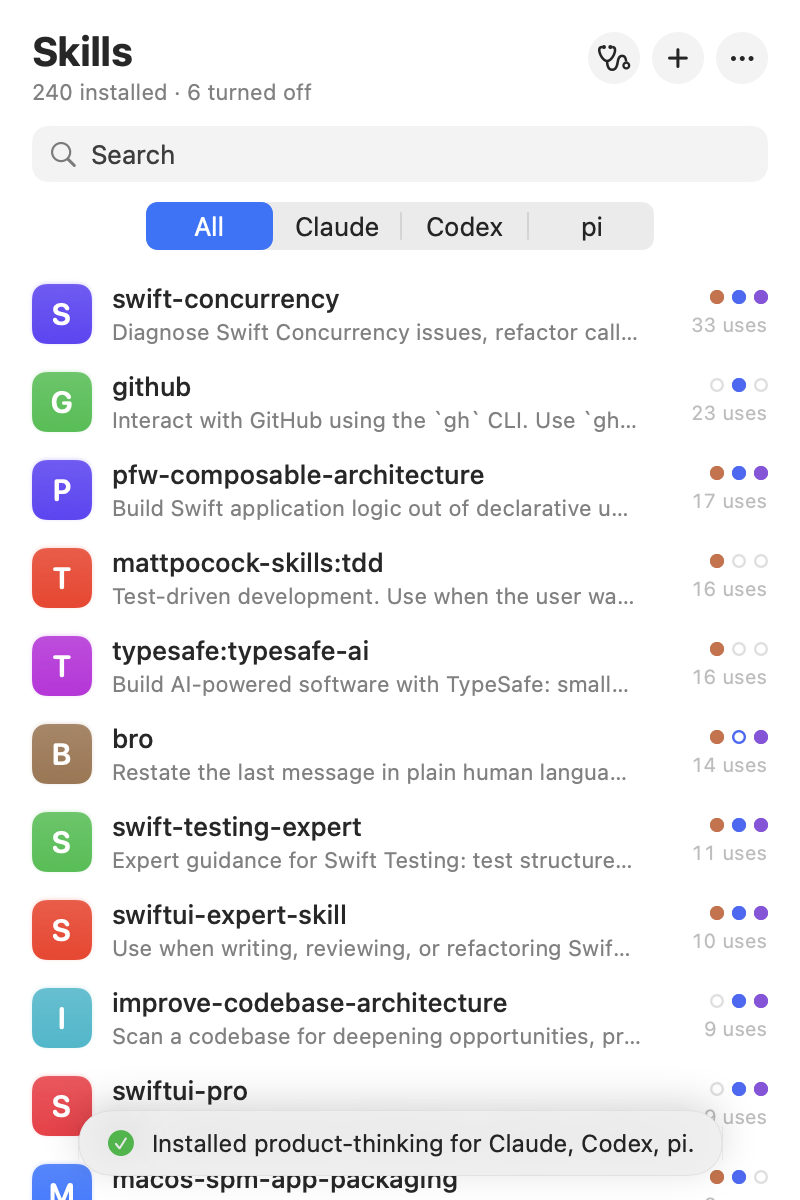
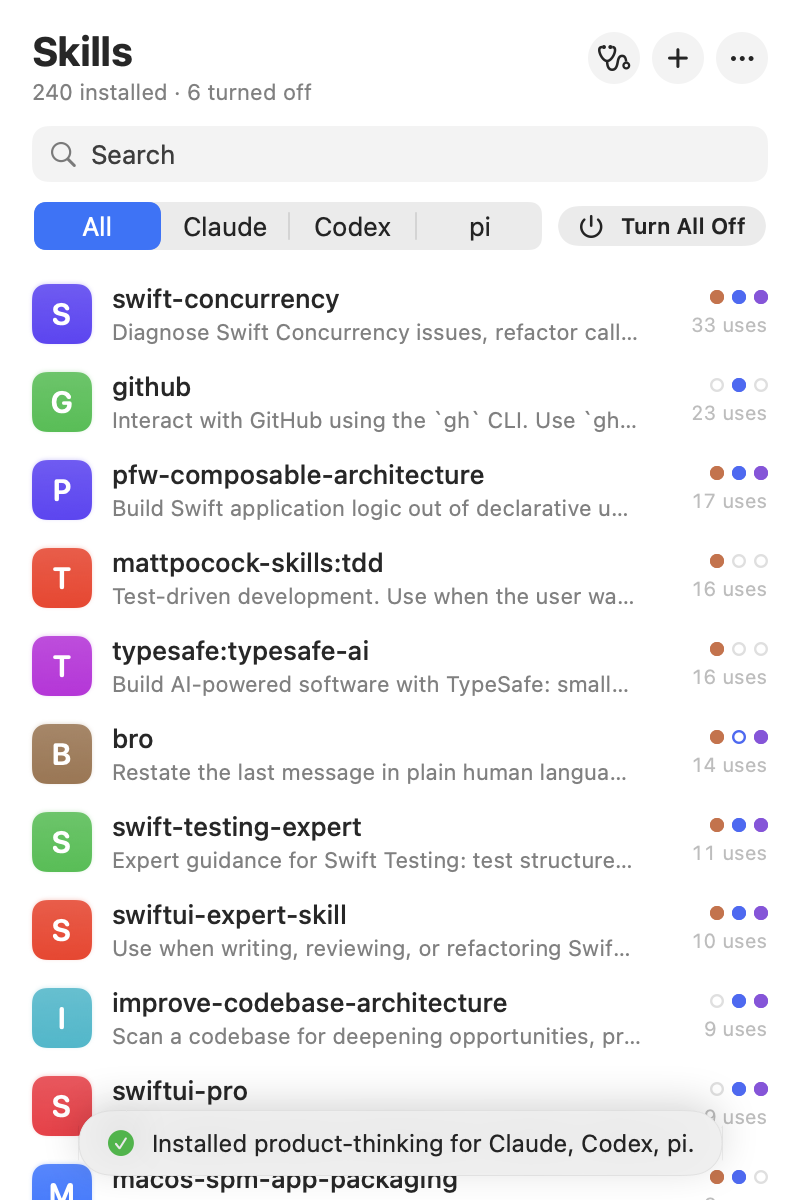
Add Turn All Off / Turn All On, and refilm the demo with it
Turn All Off switches off every skill for the selected agents in one
write per config file and remembers which ones it changed; Turn All On
restores exactly those. The demo film gets a beat for it, the user's
own wallpaper, and end card text without agent names.

diff --git a/films/skillspack-demo/src/film.js b/films/skillspack-demo/src/film.js
@@ -14,9 +14,9 @@ const PANEL = { x: ICON.x - 200, y: 28, w: 400, h: 600 };
 
 // Beat times (seconds). The same table drives picture and sound.
 const T = {
-  open: 0.5, bro: 2.2, codex: 3.9, back1: 5.6, banner: 6.9, fix: 8.3, back2: 9.9,
-  plus: 11.0, field: 12.1, paste: 12.6, find: 13.5, found: 14.6, install: 16.0, wide: 16.35, rest: 17.2, card: 19.3,
-  toastGone: 19.06, // the app hides a toast 3 s after it appears
+  open: 0.5, allOff: 1.9, allOn: 3.6, bro: 5.0, codex: 6.7, back1: 8.4, banner: 9.7, fix: 11.1, back2: 12.7,
+  plus: 13.8, field: 14.9, paste: 15.4, find: 16.3, found: 17.4, install: 18.8, wide: 19.15, rest: 20.0, card: 22.1,
+  toastGone: 21.86, // the app hides a toast 3 s after it appears
 };
 
 // Panel point → screen point.
@@ -25,11 +25,11 @@ const P = (x, y) => ({ x: PANEL.x + x, y: PANEL.y + y });
 // Camera framings, each from its start time: [time, zoom, focus]. Moves take 0.9 s.
 const SHOTS = [
   [0, 1.6, { x: ICON.x - 120, y: 0 }], // the menu bar icon and the cursor
-  [T.open + 0.1, 1.6, P(200, 270)], // the list
+  [T.open + 0.1, 1.5, P(200, 290)], // the list, from the title down to its toasts
   [T.bro + 0.1, 2.0, P(200, 365)], // the switches and the toast below them
-  [T.back1 + 0.1, 1.6, P(200, 270)], // the list with the problem banner
+  [T.back1 + 0.1, 1.5, P(200, 290)], // the list with the problem banner
   [T.banner + 0.1, 2.0, P(200, 230)], // the problem and the Fix button
-  [T.back2 + 0.1, 1.6, P(200, 270)], // the list and the + button
+  [T.back2 + 0.1, 1.5, P(200, 290)], // the list and the + button
   [T.plus + 0.1, 1.9, P(200, 170)], // the Add Skills header and the URL field
   [T.find + 0.1, 1.9, P(200, 350)], // the URL field down to the Install button
   [T.wide, 1.35, { x: SCREEN.w, y: 0 }], // the panel on the right, room for the end card
@@ -39,6 +39,8 @@ const MOVE = 0.9;
 // Each click: when, and where the cursor is when it clicks (screen points).
 const CLICKS = [
   { t: T.open, at: ICON },
+  { t: T.allOff, at: P(341, 113) },
+  { t: T.allOn, at: P(341, 113) },
   { t: T.bro, at: P(150, 432) },
   { t: T.codex, at: P(350, 337) },
   { t: T.back1, at: P(34, 20) },
@@ -56,7 +58,7 @@ const CURSOR_START = { x: ICON.x - 64, y: 58 };
 
 // Which app screen shows from which time. The app swaps screens in about a tenth of a second.
 const STATES = [
-  [T.open, "list"], [T.bro + 0.06, "detail"], [T.codex + 0.06, "detailOff", { blend: [322, 318, 56, 38], dur: 0.2 }], [T.back1 + 0.06, "listAfterToggle"],
+  [T.open, "list"], [T.allOff + 0.06, "listAllOff"], [T.allOn + 0.06, "listAllOn"], [T.bro + 0.06, "detail"], [T.codex + 0.06, "detailOff", { blend: [322, 318, 56, 38], dur: 0.2 }], [T.back1 + 0.06, "listAfterToggle"],
   [T.banner + 0.06, "health"], [T.fix + 0.06, "healthFixed"], [T.back2 + 0.06, "listAfterFix"],
   [T.plus + 0.06, "installEmpty"], [T.paste, "installPasted"], [T.find + 0.06, "installFinding"],
   [T.found, "installFound"], [T.install + 0.06, "listInstalled"], [T.toastGone, "listFinal"],
@@ -65,13 +67,16 @@ const STATES = [
 const FONT = `-apple-system, "SF Pro Display", "Helvetica Neue", sans-serif`;
 
 export default {
-  duration: 23,
+  duration: 25.8,
   fps: 60,
   formats: ["wide"],
-  poster: 22.9,
+  poster: 25.7,
   assets: {
     menubar: "assets/menubar-white.png",
+    wallpaper: "assets/wallpaper.jpg",
     list: "assets/ui/01-list.png",
+    listAllOff: "assets/ui/01b-list-all-off.png",
+    listAllOn: "assets/ui/01c-list-all-on.png",
     detail: "assets/ui/03-detail-bro.png",
     detailOff: "assets/ui/04-detail-bro-off.png",
     listAfterToggle: "assets/ui/05-list-after-toggle.png",
@@ -92,7 +97,7 @@ export default {
     // Screen points → film pixels, through the camera.
     ctx.setTransform(cam.z * K, 0, 0, cam.z * K, fmt.w / 2 - cam.fx * cam.z * K, fmt.h / 2 - cam.fy * cam.z * K);
 
-    wallpaper(ctx);
+    ctx.drawImage(assets.wallpaper, 0, 0, SCREEN.w, SCREEN.h); // the user's own desktop picture
     const open = panelOpen(t);
     if (open > 0) statusHighlight(ctx, open);
     ctx.drawImage(assets.menubar, 0, 0, SCREEN.w, 24);
@@ -157,23 +162,6 @@ function camera(t) {
 }
 
 // MARK: Desktop
-
-function wallpaper(ctx) {
-  const { w, h } = SCREEN;
-  const base = ctx.createLinearGradient(0, 0, w, h);
-  base.addColorStop(0, "#0e2747");
-  base.addColorStop(0.55, "#22356f");
-  base.addColorStop(1, "#3a2c63");
-  ctx.fillStyle = base;
-  ctx.fillRect(-w, -h, w * 3, h * 3);
-  for (const [x, y, r, color] of [[260, 760, 760, "rgba(38, 140, 170, 0.45)"], [1380, 140, 700, "rgba(120, 90, 200, 0.35)"], [820, 420, 520, "rgba(70, 110, 220, 0.25)"]]) {
-    const glow = ctx.createRadialGradient(x, y, 0, x, y, r);
-    glow.addColorStop(0, color);
-    glow.addColorStop(1, "rgba(0, 0, 0, 0)");
-    ctx.fillStyle = glow;
-    ctx.fillRect(-w, -h, w * 3, h * 3);
-  }
-}
 
 function statusHighlight(ctx, alpha) {
   ctx.save();
@@ -307,7 +295,7 @@ function endCard(ctx, t, fmt) {
   ctx.fillText("SkillsPack", x, y + h - 150 + (1 - p) * 14);
   ctx.globalAlpha = p * 0.82;
   ctx.font = `400 44px ${FONT}`;
-  const lines = ["Skills for Claude Code, Codex, and pi.", "In your menu bar."];
+  const lines = ["Manage all your agent skills.", "Right from your menu bar."];
   lines.forEach((line, i) => ctx.fillText(line, x + 3, y + h - 66 + i * 56 + (1 - p) * 14));
   ctx.restore();
 }

diff --git a/Sources/SkillsPackCore/Switches.swift b/Sources/SkillsPackCore/Switches.swift
@@ -50,10 +50,17 @@ public struct Switches: Sendable {
     }
 
     public func setEnabled(_ enabled: Bool, skill: Skill, agent: Agent) throws {
+        try setEnabled(enabled, skills: [skill], agent: agent)
+    }
+
+    /// Switches many skills for one agent, reading and writing its config file once.
+    public func setEnabled(_ enabled: Bool, skills: [Skill], agent: Agent) throws {
+        let skills = skills.filter { !$0.installations(for: agent).isEmpty }
+        guard !skills.isEmpty else { return }
         switch agent {
-        case .claude: try setClaude(enabled, skill: skill)
-        case .codex: try setCodex(enabled, skill: skill)
-        case .pi: try setPi(enabled, skill: skill)
+        case .claude: try setClaude(enabled, skills: skills)
+        case .codex: try setCodex(enabled, skills: skills)
+        case .pi: try setPi(enabled, skills: skills)
         }
     }
 
@@ -66,14 +73,19 @@ public struct Switches: Sendable {
 
     // MARK: Claude
 
-    func setClaude(_ enabled: Bool, skill: Skill) throws {
+    func setClaude(_ enabled: Bool, skills: [Skill]) throws {
         let file = JSONFile(url: paths.claudeSettings)
         let (value, indent, newline) = try file.read()
         var settings = value
         var overrides = settings["skillOverrides"] ?? .object([])
-        let isOff = overrides[skill.name]?.stringValue == "off"
-        guard isOff == enabled else { return } // already in the wanted state
-        overrides.set(skill.name, enabled ? nil : .string("off"))
+        var changed = false
+        for skill in skills {
+            let isOff = overrides[skill.name]?.stringValue == "off"
+            guard isOff == enabled else { continue } // already in the wanted state
+            overrides.set(skill.name, enabled ? nil : .string("off"))
+            changed = true
+        }
+        guard changed else { return }
         settings.set("skillOverrides", overrides.members.isEmpty ? nil : overrides)
         try Backup(paths: paths).save(paths.claudeSettings, label: "claude")
         try file.write(settings, indent: indent, trailingNewline: newline)
@@ -88,11 +100,13 @@ public struct Switches: Sendable {
         return skill.installations(for: .codex).contains { canonical($0.skillFile.path) == target }
     }
 
-    func setCodex(_ enabled: Bool, skill: Skill) throws {
+    func setCodex(_ enabled: Bool, skills: [Skill]) throws {
         let text = (try? String(contentsOf: paths.codexConfig, encoding: .utf8)) ?? ""
         var config = CodexConfig(text: text)
-        config.removeBlocks { codexBlock($0, matches: skill) }
-        if !enabled { try config.appendDisabled(name: skill.name) }
+        config.removeBlocks { block in skills.contains { codexBlock(block, matches: $0) } }
+        if !enabled {
+            for skill in skills { try config.appendDisabled(name: skill.name) }
+        }
         guard config.text != text else { return }
         try Backup(paths: paths).save(paths.codexConfig, label: "codex")
         try FileManager.default.createDirectory(at: paths.codexConfig.deletingLastPathComponent(), withIntermediateDirectories: true)
@@ -124,8 +138,8 @@ public struct Switches: Sendable {
         }
     }
 
-    func setPi(_ enabled: Bool, skill: Skill) throws {
-        let installations = skill.installations(for: .pi)
+    func setPi(_ enabled: Bool, skills: [Skill]) throws {
+        let installations = skills.flatMap { $0.installations(for: .pi) }
         let file = JSONFile(url: paths.piSettings)
         let (value, indent, newline) = try file.read()
         var settings = value

diff --git a/Sources/SkillsPack/SkillStore.swift b/Sources/SkillsPack/SkillStore.swift
@@ -14,6 +14,8 @@ final class SkillStore {
     private(set) var updates: Set<String> = []
     private(set) var issues: [HealthIssue] = []
     private(set) var repos: [String] = []
+    /// What "Turn All Off" switched off, by scope ("all" or an agent), as "agent|skill".
+    private(set) var turnedOff: [String: [String]] = [:]
     private(set) var isCountingUsage = false
     private(set) var isCheckingUpdates = false
     var message: String?
@@ -40,6 +42,55 @@ final class SkillStore {
         self.sources = sources
         self.issues = issues
         self.repos = repos
+        turnedOff = (try? JSONDecoder().decode([String: [String]].self, from: Data(contentsOf: turnedOffURL))) ?? [:]
+    }
+
+    // MARK: Turn all off and on
+
+    private var turnedOffURL: URL { paths.appSupport.appending(path: "turned-off.json") }
+
+    private func scopeKey(_ agent: Agent?) -> String { agent?.rawValue ?? "all" }
+
+    /// True when "Turn All Off" ran for this scope and has not been undone.
+    func isAllOff(_ agent: Agent?) -> Bool { turnedOff[scopeKey(agent)] != nil }
+
+    /// Turns off every skill that is on, for one agent or for all of them, and remembers which ones.
+    func turnAllOff(_ agent: Agent?) async {
+        let agents = agent.map { [$0] } ?? Agent.allCases
+        let batches = agents.map { agent in (agent, skills.filter { state($0, agent) == .on }) }
+        let count = batches.reduce(0) { $0 + $1.1.count }
+        var record = turnedOff
+        record[scopeKey(agent)] = batches.flatMap { agent, skills in skills.map { "\(agent.rawValue)|\($0.name)" } }
+        let saved = record
+        let url = turnedOffURL
+        await run("Turned off \(count) skills\(agent.map { " in \($0.title)" } ?? " everywhere").") { paths in
+            let switches = Switches(paths: paths)
+            for (agent, skills) in batches { try switches.setEnabled(false, skills: skills, agent: agent) }
+            try FileManager.default.createDirectory(at: paths.appSupport, withIntermediateDirectories: true)
+            try JSONEncoder().encode(saved).write(to: url, options: .atomic)
+        }
+    }
+
+    /// Turns back on exactly the skills that "Turn All Off" turned off. Skills that were already off stay off.
+    func turnAllOn(_ agent: Agent?) async {
+        let key = scopeKey(agent)
+        let entries = turnedOff[key] ?? []
+        let byName = Dictionary(skills.map { ($0.name, $0) }, uniquingKeysWith: { first, _ in first })
+        let batches = Agent.allCases.map { agent in
+            (agent, entries.compactMap { entry -> Skill? in
+                let parts = entry.split(separator: "|", maxSplits: 1).map(String.init)
+                return parts.count == 2 && parts[0] == agent.rawValue ? byName[parts[1]] : nil
+            })
+        }
+        var record = turnedOff
+        record[key] = nil
+        let saved = record
+        let url = turnedOffURL
+        await run("Turned \(entries.count) skills back on.") { paths in
+            let switches = Switches(paths: paths)
+            for (agent, skills) in batches { try switches.setEnabled(true, skills: skills, agent: agent) }
+            try JSONEncoder().encode(saved).write(to: url, options: .atomic)
+        }
     }
 
     /// Checks for updates once a day while the app runs.

diff --git a/Sources/SkillsPack/DemoStates.swift b/Sources/SkillsPack/DemoStates.swift
@@ -21,10 +21,22 @@ enum DemoStates {
         await store.countUsage()
 
         func shot(_ name: String, _ view: some View, wait: Double = 0.8) async {
-            await capture(view.environment(store), name: name, size: CGSize(width: 400, height: 600), wait: wait, to: out)
+            await capture(view.environment(store).background(Color(nsColor: .windowBackgroundColor)), name: name, size: CGSize(width: 400, height: 600), wait: wait, to: out)
         }
 
+        let onlyInstall = CommandLine.arguments.contains("--only-install")
+        if !onlyInstall {
         await shot("01-list", RootView(route: .list))
+        await store.turnAllOff(nil)
+        let off = Agent.allCases.map { agent in "\(agent.title) \(store.skills.filter { store.state($0, agent) == .off }.count)" }
+        print("after Turn All Off, off per agent: \(off.joined(separator: ", "))")
+        await shot("01b-list-all-off", RootView(route: .list))
+        store.message = nil
+        await store.turnAllOn(nil)
+        let back = Agent.allCases.map { agent in "\(agent.title) \(store.skills.filter { store.state($0, agent) == .off }.count)" }
+        print("after Turn All On, off per agent: \(back.joined(separator: ", "))")
+        await shot("01c-list-all-on", RootView(route: .list))
+        store.message = nil
         await shot("03-detail-bro", RootView(route: .detail("bro")))
         if let bro = store.skills.first(where: { $0.name == "bro" }) { await store.toggle(bro, .codex) }
         await shot("04-detail-bro-off", RootView(route: .detail("bro")))
@@ -37,6 +49,7 @@ enum DemoStates {
         store.message = nil
         await shot("07b-list-after-fix", RootView(route: .list))
 
+        }
         // The user pastes a link to the skill's folder, as people share skills.
         let url = "https://github.com/tornikegomareli/Skills/tree/main/product-thinking"
         await shot("08-install-empty", InstallView(route: .constant(.install)), wait: 0.4)
@@ -72,6 +85,10 @@ enum DemoStates {
         window.makeKeyAndOrderFront(nil)
         defer { window.orderOut(nil) }
         try? await Task.sleep(for: .seconds(wait))
+        // Another app may have taken focus during a long wait; controls draw grey without it.
+        NSApp.activate(ignoringOtherApps: true)
+        window.makeKeyAndOrderFront(nil)
+        try? await Task.sleep(for: .seconds(0.3))
         host.layoutSubtreeIfNeeded()
         guard let rep = host.bitmapImageRepForCachingDisplay(in: host.bounds) else { return }
         host.cacheDisplay(in: host.bounds, to: rep)

diff --git a/Sources/SkillsPack/SkillListView.swift b/Sources/SkillsPack/SkillListView.swift
@@ -131,11 +131,14 @@ struct SkillListView: View {
             .padding(.horizontal, 8)
             .frame(height: 28)
             .background(.fill.tertiary, in: RoundedRectangle(cornerRadius: 8, style: .continuous))
-            Picker("Agent", selection: $agentFilter) {
-                ForEach(AgentFilter.allCases) { Text($0.rawValue).tag($0) }
+            HStack(spacing: 8) {
+                Picker("Agent", selection: $agentFilter) {
+                    ForEach(AgentFilter.allCases) { Text($0.rawValue).tag($0) }
+                }
+                .pickerStyle(.segmented)
+                .labelsHidden()
+                masterSwitch
             }
-            .pickerStyle(.segmented)
-            .labelsHidden()
         }
         .padding(.horizontal, 16)
         .padding(.top, 14)
@@ -158,6 +161,24 @@ struct SkillListView: View {
         }
         .font(.system(size: 11))
         .foregroundStyle(.secondary)
+    }
+
+    /// Turns every skill off for the selected agents, then back on again.
+    var masterSwitch: some View {
+        let agent = agentFilter.agent
+        let allOff = store.isAllOff(agent)
+        return Button {
+            Task { allOff ? await store.turnAllOn(agent) : await store.turnAllOff(agent) }
+        } label: {
+            Label(allOff ? "Turn All On" : "Turn All Off", systemImage: "power")
+                .font(.system(size: 11, weight: .semibold))
+        }
+        .buttonStyle(.bordered)
+        .buttonBorderShape(.capsule)
+        .controlSize(.small)
+        .tint(allOff ? .green : nil)
+        .help(allOff ? "Turn back on the skills that Turn All Off turned off" : "Turn off every skill" + (agent.map { " in \($0.title)" } ?? " in every agent"))
+        .fixedSize()
     }
 
     var moreMenu: some View {

diff --git a/Tests/SkillsPackCoreTests/SwitchesTests.swift b/Tests/SkillsPackCoreTests/SwitchesTests.swift
@@ -120,6 +120,33 @@ import Testing
         #expect(switches.state(of: skill, for: .pi, in: switches.snapshot()) == .on)
     }
 
+    @Test func batchOffAndOnRestoresEveryFile() throws {
+        let home = try TempHome()
+        let paths = home.paths
+        for name in ["one", "two", "three"] {
+            try home.skill(name, in: paths.claudeSkills)
+            try home.skill(name, in: paths.codexSkills)
+            try home.skill(name, in: paths.piSkills)
+        }
+        let claude = "{\n  \"model\": \"opus\"\n}\n"
+        let codex = "model = \"gpt-5\"\n\n[projects.\"/x\"]\ntrust_level = \"trusted\"\n"
+        let pi = "{\n  \"theme\": \"dark\"\n}\n"
+        try home.write(claude, to: paths.claudeSettings)
+        try home.write(codex, to: paths.codexConfig)
+        try home.write(pi, to: paths.piSettings)
+        let skills = Scanner(paths: paths).scan()
+        let switches = Switches(paths: paths)
+
+        for agent in Agent.allCases { try switches.setEnabled(false, skills: skills, agent: agent) }
+        let snapshot = switches.snapshot()
+        #expect(skills.allSatisfy { skill in Agent.allCases.allSatisfy { switches.state(of: skill, for: $0, in: snapshot) == .off } })
+
+        for agent in Agent.allCases { try switches.setEnabled(true, skills: skills, agent: agent) }
+        #expect(home.read(paths.claudeSettings) == claude)
+        #expect(home.read(paths.codexConfig) == codex)
+        #expect(home.read(paths.piSettings) == pi)
+    }
+
     @Test func backupIsWrittenBeforeChanges() throws {
         let home = try TempHome()
         try home.skill("bro", in: home.paths.claudeSkills)

diff --git a/films/skillspack-demo/shotlist.md b/films/skillspack-demo/shotlist.md
@@ -5,16 +5,19 @@ State chain: DESKTOP → LIST → DETAIL → SWITCH OFF → LIST → HEALTH → 
 | Time | Beat | Entry state | Exit state | Purpose |
 | --- | --- | --- | --- | --- |
 | 0–0.5 s | DESKTOP | close on the menu bar, cursor next to the SkillsPack icon | icon clicked | where the app lives |
-| 0.5–2.2 s | LIST | panel opens on 239 skills with usage and agent dots (1.6×) | cursor clicks `bro` | see every skill in one place |
+| 0.5–1.9 s | LIST | panel opens on 239 skills with usage and agent dots (1.6×) | cursor clicks Turn All Off | see every skill in one place |
+| 1.9–5.0 s | ALL OFF / ON | Turn All Off: every dot hollow, toast "Turned off 385 skills everywhere." | Turn All On: toast "Turned 385 skills back on." | one switch for everything |
 | 2.2–5.6 s | SWITCH | `bro` detail, switches for Claude, Codex, pi | Codex switch off, toast "Turned off bro in Codex." | switch per agent |
 | 5.6–8.3 s | HEALTH | list shows "1 Problem Found" | Health screen, broken link | fix |
 | 8.3–9.9 s | FIXED | Fix clicked | "No problems found." and toast | fix, proven |
 | 9.9–16.0 s | ADD | + opens Add Skills | link pasted, Find, product-thinking found and selected | install from a URL |
 | 16.0–19.3 s | INSTALLED | Install clicked | list with toast; camera eases out to 1.35×; cursor rests on the menu bar icon; toast gone at 19.06 | confirmation |
-| 19.3–23 s | END CARD | panel open on the list | "SkillsPack" / "Skills for Claude Code, Codex, and pi. In your menu bar." at lower left | the one idea, poster frame |
+| 19.3–23 s | END CARD | panel open on the list | "SkillsPack" / "Manage all your agent skills. Right from your menu bar." at lower left | the one idea, poster frame |
 
 Changed after reviews 1 and 2: hard cuts between screens (only the Codex switch animates, 0.2 s), the film opens close on the menu bar icon, the camera follows the action (1.6× list, 2.0× switch and Health, 1.9× install), a caret blinks in the URL field, and the panel stays open behind the end card. Film is 23 s.
 
 ## Beat grid (sound = clicks only)
 0.5 open · 2.2 bro · 3.9 Codex switch · 5.6 back · 6.9 banner · 8.3 Fix · 9.9 back · 11.0 + · 12.1 field · 12.46/12.56 ⌘V · 13.5 Find · 16.0 Install
 Each click: press tick at the beat, softer release tick 75 ms later.
+
+Changed on request: the Turn All Off / On beat after the panel opens (later beats move 2.8 s), the user's own wallpaper (scene-aetheria-dark-sunset-tree), and end card text without agent names. Film is 25.8 s.
